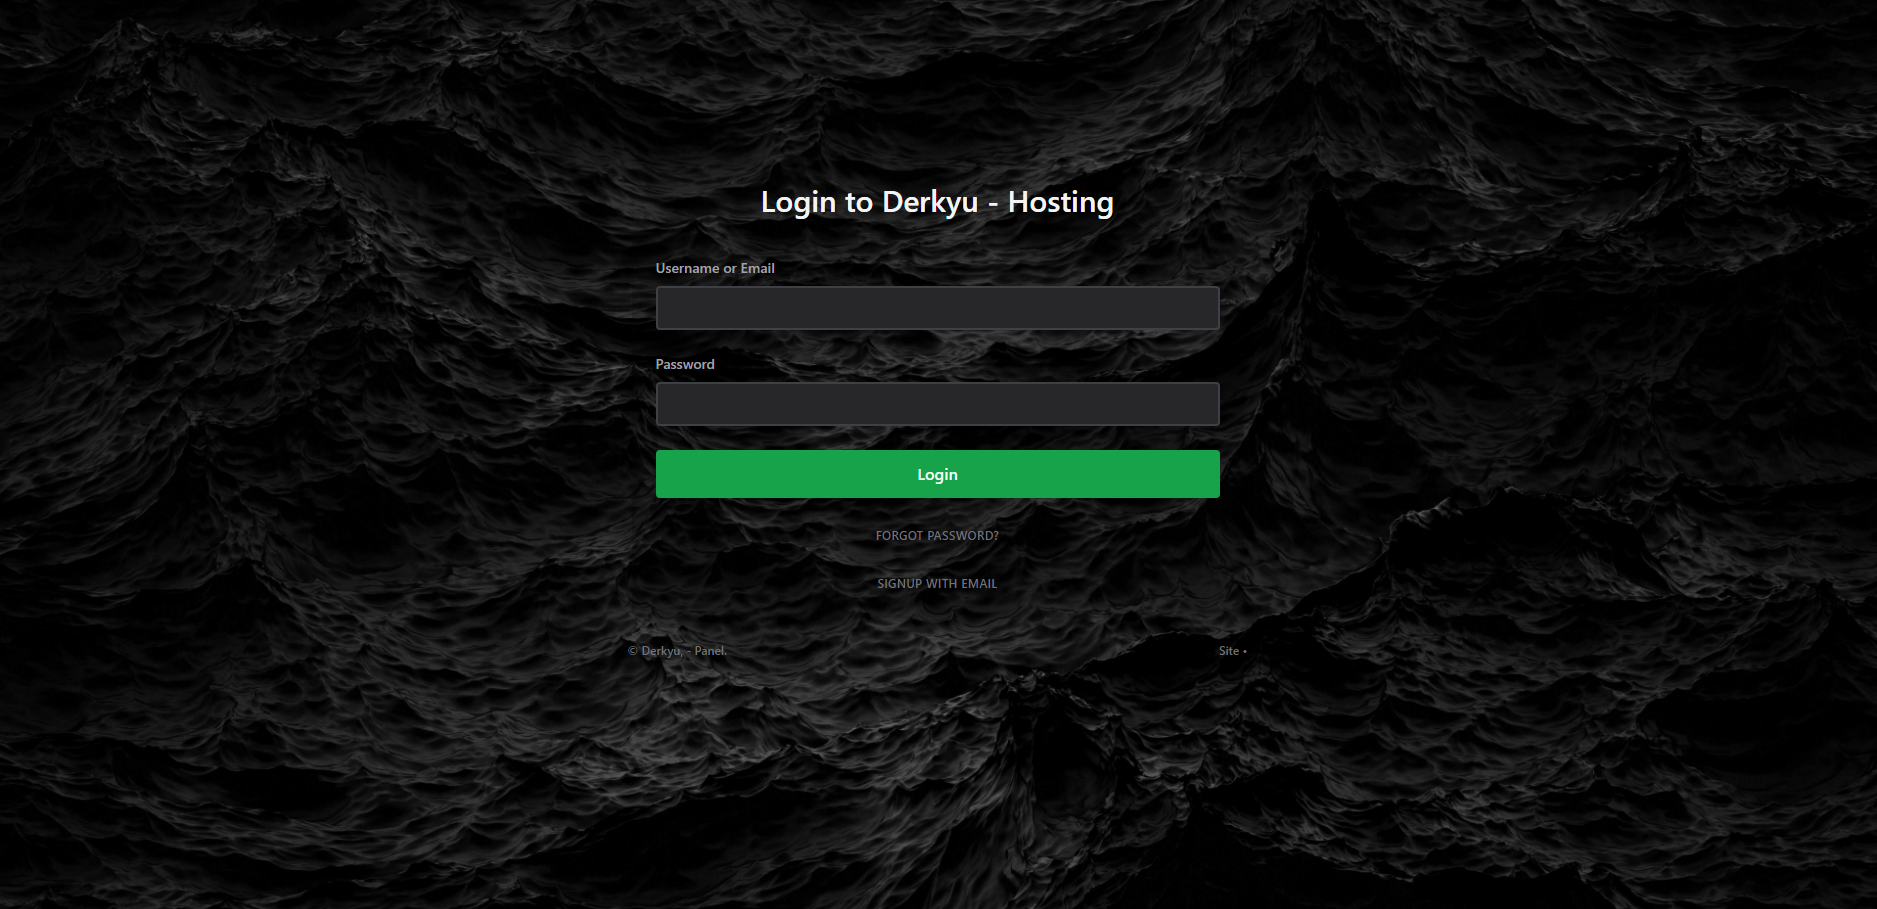
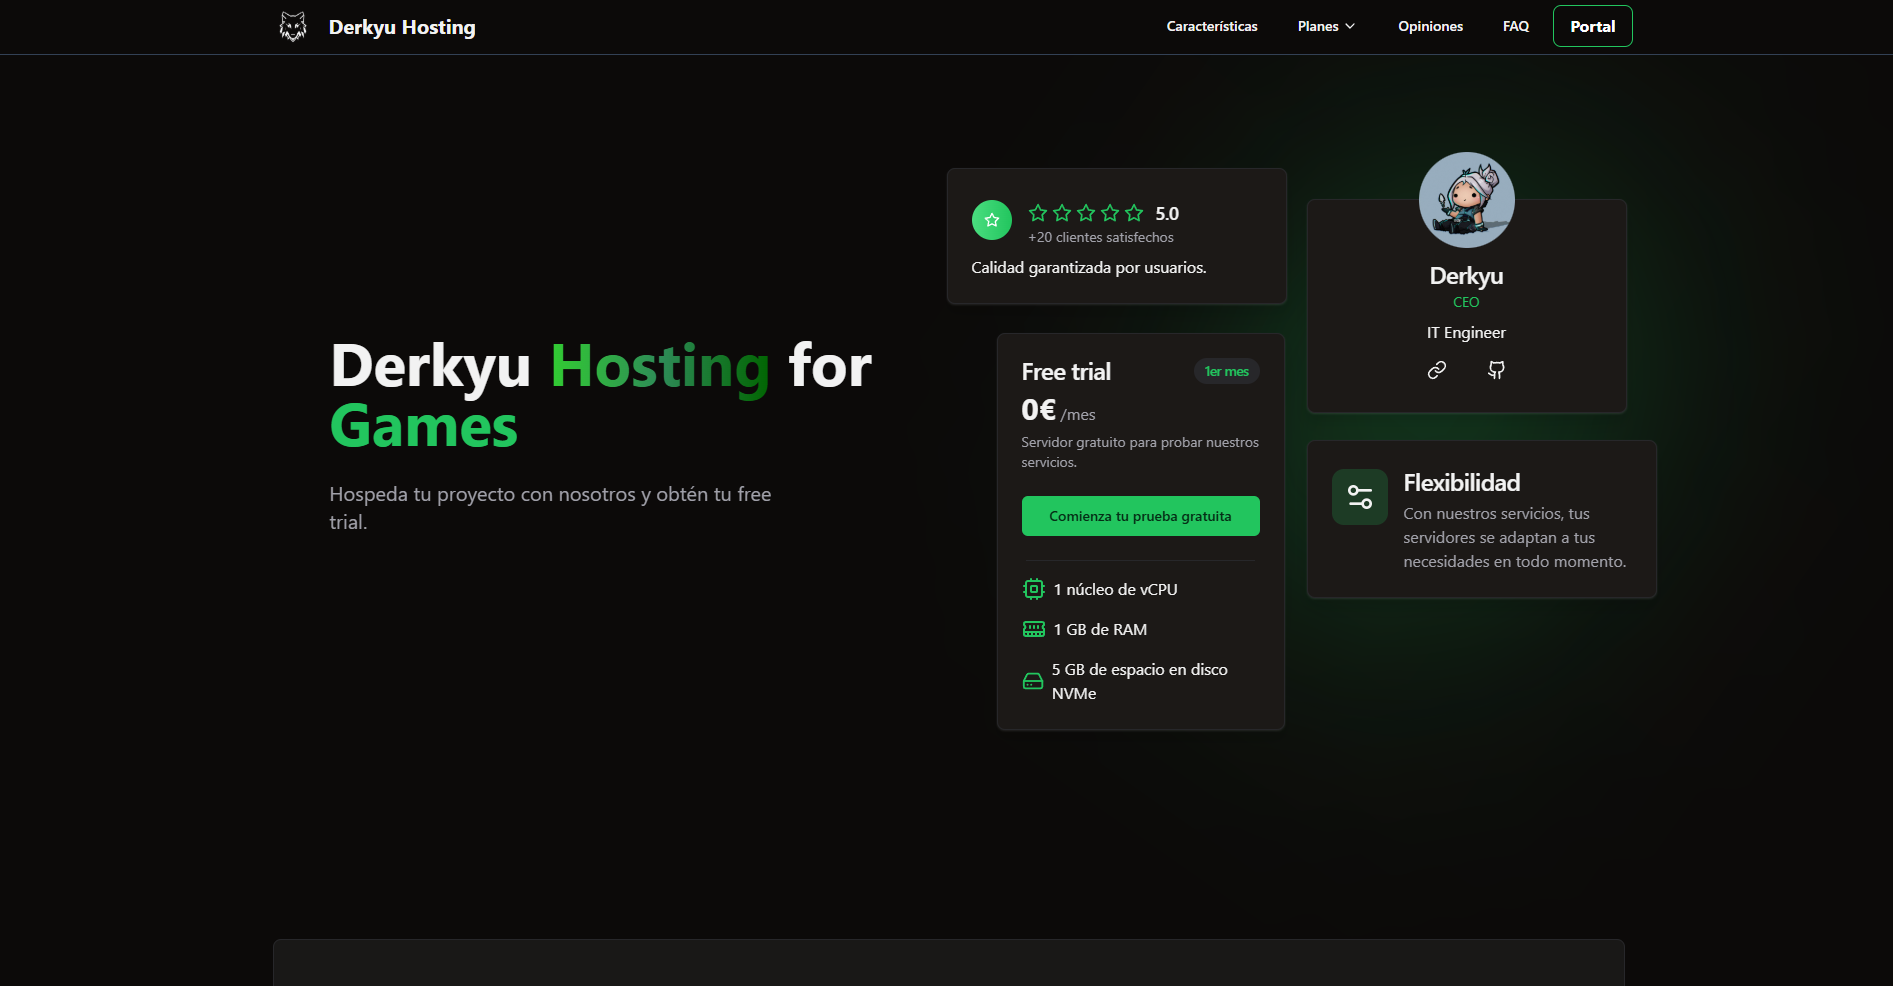
Updated derkyu hosting

diff --git a/pages/works/derkyu-panel.js b/pages/works/derkyu-panel.js
@@ -11,16 +11,16 @@ const Work = () => (
        Derkyu Hosting <Badge>2025</Badge>
       </Title>
       <P> 
-      Un hosting con un panel multifución con soporte para videojuegos y software.
+      Pagina web de hosting propio
       </P>
       <List ml={4} my={4}>
         <ListItem>
-          <Meta>Games</Meta>
-          <span>Minecraft, Fivem, Project Zomboid, etc</span>
+          <Meta>Lenguaje</Meta>
+          <span>Node.js</span>
         </ListItem>
         <ListItem>
-          <Meta>Software</Meta>
-          <span>Code-server, Nextcloud, Website hosting, Bot hosting etc</span>
+          <Meta>Framework</Meta>
+          <span>Vite, React, Tailwind</span>
         </ListItem>
         <ListItem>
           <Meta>Link</Meta>
